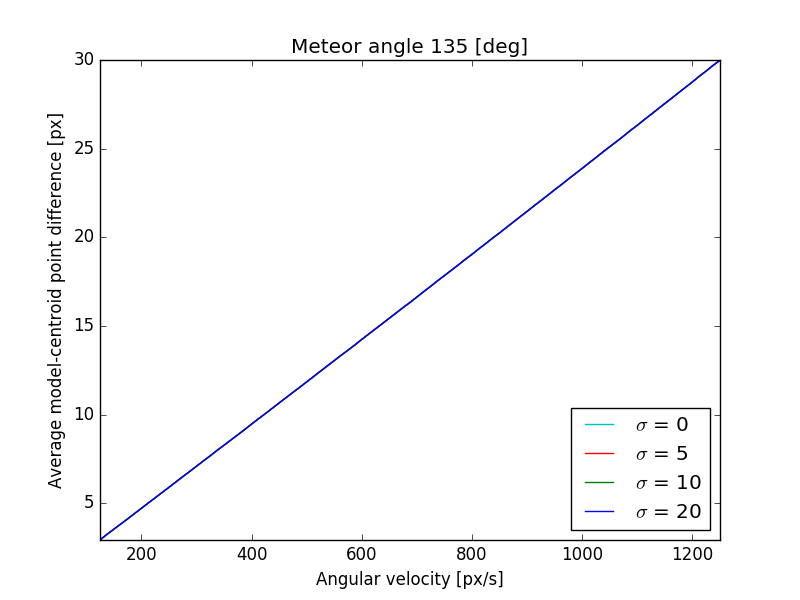
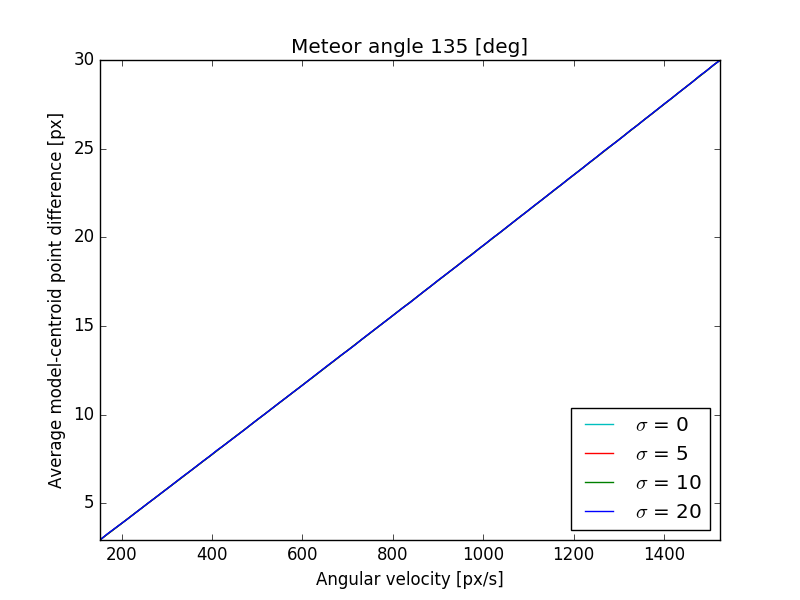
fixed bug (t_mid was = t_start; should be avg(t_start, t_finish))

diff --git a/Source/ODN-Rv_corrSim.py b/Source/ODN-Rv_corrSim.py
@@ -10,7 +10,7 @@ import Parameters as par
 
 # Parameters that are used only for this simulation
 rolling_shutter = True
-show_plots = True
+show_plots = False
 
 # Number of iterations for each angular velocity value - 
 # used to have a better representatin of the actual difference value
@@ -34,7 +34,7 @@ for noise in par.noise_scale_arr:
 
 			# Get model and centroid coordinates
 			time_coordinates, centroid_coordinates, model_coordinates = st.pointsCentroidAndModel(rolling_shutter, par.t_meteor, par.phi, \
-            	omega_iter, par.img_x, par.img_y, par.scale, par.fps, par.sigma_x, par.sigma_y, noise, par.offset, par.fit_param, par.show_plots)
+            	omega_iter, par.img_x, par.img_y, par.scale, par.fps, par.sigma_x, par.sigma_y, noise, par.offset, par.fit_param, show_plots)
 
 			# print(centroid_coordinates)
 

diff --git a/Source/DecelerationCheck.py b/Source/DecelerationCheck.py
@@ -26,6 +26,8 @@ v_finish = omega/5
 # Form deceleration parameters array
 dec_arr = [a, st.getparam(a, v_start, v_finish, t_meteor)]
 print(dec_arr)
+# dec_arr = (0, 0)
+print(dec_arr)
 
 # Check the meteor's initial parameters
 print('Meteor velocity: {:.2f}'.format(omega))
@@ -40,6 +42,9 @@ time_rolling_coordinates, centroid_rolling_coordinates, model_rolling_coordinate
 print('Correcting centroid coordinates...')
 centroid_rolling_coordinates_corr = st.coordinateCorrection(time_rolling_coordinates, centroid_rolling_coordinates, \
 	par.img_y, par.fps, version = 'v_corr')
+
+for i in range(len(centroid_rolling_coordinates)):
+	print(centroid_rolling_coordinates[i], centroid_rolling_coordinates_corr[i])
 
 # Correct the rolling shutter temporal coordinates
 print('Correcting temporal coordinates...')

diff --git a/Source/ODN-Rtemp_corrPlot.py b/Source/ODN-Rtemp_corrPlot.py
@@ -10,7 +10,7 @@ import Parameters as par
 data = np.load('../Data/ODN/data_odn_temp_rolling.npz')
 
 # Unpack and set array names
-omega_arr = data['arr_0'] * par.fps
+omega_arr = data['arr_0'] * par.scale
 noise0_data = data['arr_1']
 noise1_data = data['arr_2']
 noise2_data = data['arr_3']
@@ -33,5 +33,5 @@ plt.title("Meteor angle {} [deg] (temporal correction)".format(par.phi))
 plt.axis('tight')
 
 # Save and show plot
-plt.savefig('../Graphs/ODN/graph_odn_temp__rolling.png')
+plt.savefig('../Graphs/ODN/graph_odn_temp_rolling.png')
 plt.show()

diff --git a/Source/SimulationTools.py b/Source/SimulationTools.py
@@ -387,7 +387,7 @@ def pointsCentroidAndModel(rolling_shutter, t_meteor, phi, omega, img_x, img_y, 
         x_centr, y_centr = meteorCentroid(read_image_array, x_start, x_finish, y_start, y_finish)
         
         # Model coordinates
-        t_mid = t_start
+        t_mid = (t_start + t_finish) / 2
         x_model, y_model = drawPoints(t_mid, x_center, y_center, scale, phi, omega, fit_param, t_meteor) 
         
         

diff --git a/Source/ODN-Rv_corrPlot.py b/Source/ODN-Rv_corrPlot.py
@@ -10,7 +10,7 @@ import Parameters as par
 data = np.load('../Data/ODN/data_odn_v_corr_rolling.npz')
 
 # Unpack and set array names
-omega_arr = data['arr_0'] * par.fps
+omega_arr = data['arr_0'] * par.scale
 noise0_data = data['arr_1']
 noise1_data = data['arr_2']
 noise2_data = data['arr_3']

diff --git a/Source/ODN-RPlot.py b/Source/ODN-RPlot.py
@@ -10,7 +10,7 @@ import Parameters as par
 data = np.load('../Data/ODN/data_odn_rolling.npz')
 
 # Unpack and set array names
-omega_arr = data['arr_0'] * par.fps
+omega_arr = data['arr_0'] * par.scale
 noise0_data = data['arr_1']
 noise1_data = data['arr_2']
 noise2_data = data['arr_3']

diff --git a/Source/ODN-GPlot.py b/Source/ODN-GPlot.py
@@ -10,7 +10,7 @@ import Parameters as par
 data = np.load('../Data/ODN/data_odn_global.npz')
 
 # Unpack and set array names
-omega_arr = data['arr_0'] * par.fps
+omega_arr = data['arr_0'] * par.scale
 noise0_data = data['arr_1']
 noise1_data = data['arr_2']
 noise2_data = data['arr_3']
